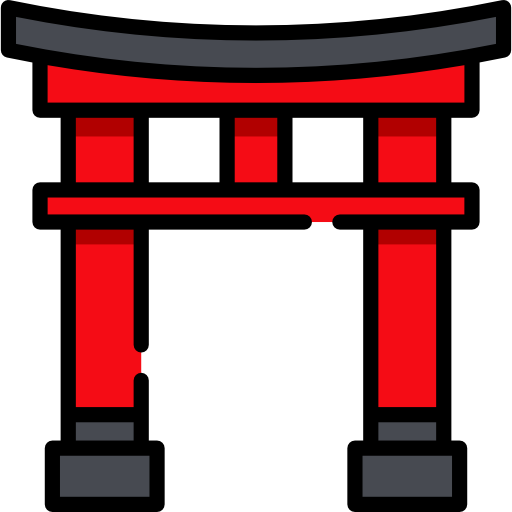
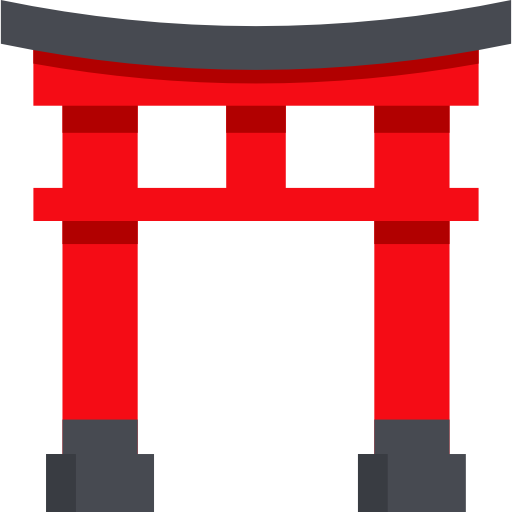
Add files via upload

Changed region(s): [[0.0, 0.0, 1.0, 1.0]]

diff --git a/index.html b/index.html
@@ -15,9 +15,10 @@
     
     <title>JAPAN | 熊本福岡初之旅</title>
     
-    <!-- 移除了容易讓 iOS 混淆的 Data URI manifest -->
-    <link rel="apple-touch-icon" href="https://cdn-icons-png.flaticon.com/512/3284/3284594.png">
-    <link rel="icon" type="image/png" href="https://cdn-icons-png.flaticon.com/512/3284/3284594.png">
+    <!-- ✅ PWA Icon 改為指向同目錄下的 icon.png -->
+    <link rel="apple-touch-icon" href="icon.png">
+    <link rel="icon" type="image/png" href="icon.png">
+    <link rel="manifest" href='data:application/manifest+json;utf-8,{"name":"Kuma Trip","short_name":"熊本之旅","start_url":".","display":"standalone","background_color":"#F5F5F0","theme_color":"#E60012","icons":[{"src":"icon.png","sizes":"512x512","type":"image/png"}]}'>
 
     <script src="https://cdn.tailwindcss.com"></script>
     <script>
@@ -1292,7 +1293,8 @@
                                         <span className="text-[10px] font-black bg-white px-2 py-1 rounded border-2 border-black shadow-[2px_2px_0px_#000]">2人平分</span>
                                     </div>
                                     <div className="flex justify-between items-end mb-3">
-                                        <div className="font-black text-2xl text-kuma-red">¥ {totalJPY.toLocaleString()}</div>
+                                        {/* ✅ 加入醒目的「日幣」兩字 */}
+                                        <div className="font-black text-2xl text-kuma-red">日幣 ¥ {totalJPY.toLocaleString()}</div>
                                         <div className="font-black text-lg">NT$ {totalTWD.toLocaleString()}</div>
                                     </div>
                                     <div className="bg-white p-2 border-2 border-black rounded text-xs font-black">每人平均：日幣 ¥ {Math.round(totalJPY/2).toLocaleString()} / NT$ {Math.round(totalTWD/2).toLocaleString()}</div>
@@ -1305,12 +1307,14 @@
                                                 <div className="font-black text-lg truncate leading-tight mb-1">{exp.name}</div>
                                                 <div className="text-[10px] font-bold text-gray-500 mb-1">{exp.date}</div>
                                                 <div className="flex items-baseline space-x-2 mb-1">
-                                                    <div className="font-black text-xl text-kuma-red">¥ {exp.jpy.toLocaleString()}</div>
+                                                    {/* ✅ 加入醒目的「日幣」兩字 */}
+                                                    <div className="font-black text-xl text-kuma-red">日幣 ¥ {exp.jpy.toLocaleString()}</div>
                                                     <div className="font-bold text-xs text-gray-400">NT$ {exp.twd.toLocaleString()}</div>
                                                 </div>
                                                 <div className="mt-1 flex items-center space-x-2 flex-wrap gap-y-1">
                                                     <span className="text-[9px] font-black bg-yellow-100 text-yellow-800 px-1.5 py-0.5 rounded border border-yellow-400">
-                                                        每人: ¥{Math.round(exp.jpy/2).toLocaleString()} / NT$ {Math.round(exp.twd/2).toLocaleString()}
+                                                        {/* ✅ 平均分攤也加入「日幣」兩字 */}
+                                                        每人: 日幣 ¥{Math.round(exp.jpy/2).toLocaleString()} / NT$ {Math.round(exp.twd/2).toLocaleString()}
                                                     </span>
                                                 </div>
                                             </div>
